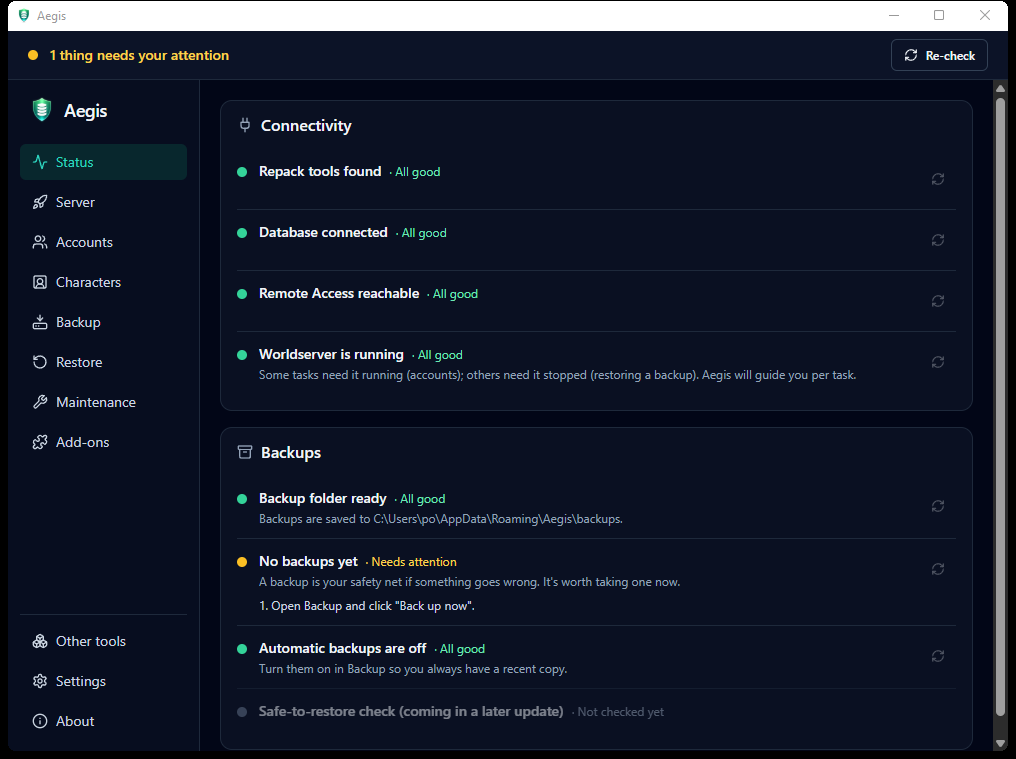
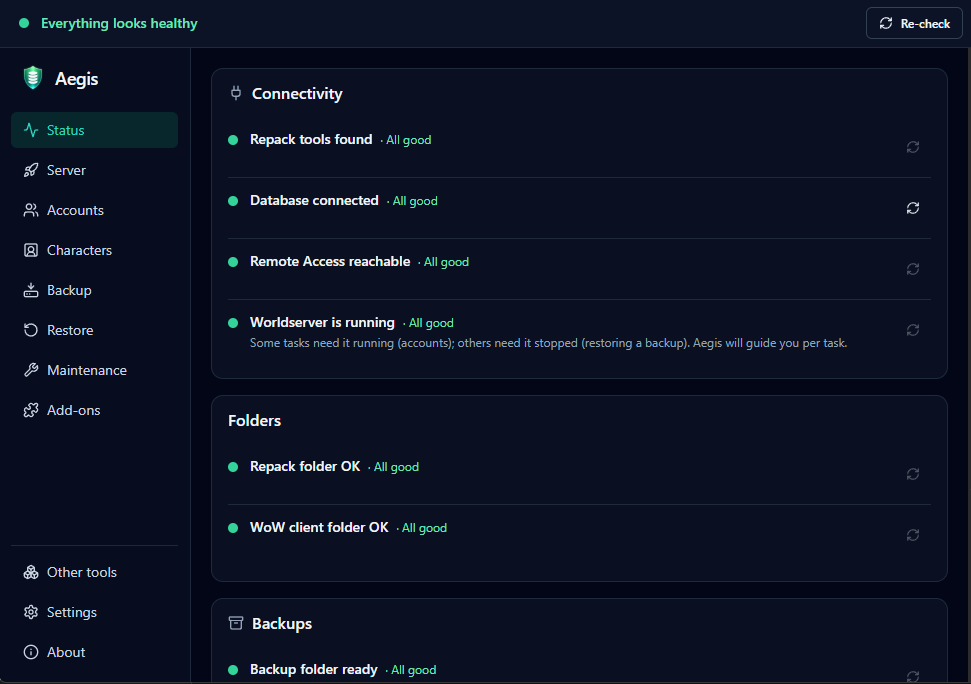
docs: restore README screenshot gallery for v0.1 release
User-captured the 8 main screenshots (status / server / accounts /
characters / backup / restore / maintenance / addons). The setup
walkthrough is the new aegis_setup.gif. Brought back inline
descriptions for each, refreshed to mention the new functionality
they show:
- status: Folders category (path revalidation each start)
- accounts: the new Delete account card with typed-name confirm
- characters: safe-new-GUID across every character_* table
- restore: live-polling server gate (no more stale-Health stuck)
- maintenance: live DB size summary with Total

Also: tiny polish to match the new Folders category — added a
FolderTree icon next to the section header on StatusCard so it sits
alongside the Connectivity (Plug) and Backups (Archive) icons.

diff --git a/src/features/health/StatusCard.tsx b/src/features/health/StatusCard.tsx
@@ -1,4 +1,4 @@
-import { Archive, Plug, RefreshCw } from "lucide-react";
+import { Archive, FolderTree, Plug, RefreshCw } from "lucide-react";
 import { Button } from "@/components/ui/button";
 import { Card, CardContent, CardHeader, CardTitle } from "@/components/ui/card";
 import { STATUS_META } from "./status";
@@ -6,6 +6,7 @@ import type { HealthCheck, HealthReport } from "@/lib/types";
 
 const CATEGORY_ICONS: Record<string, React.ReactNode> = {
   Connectivity: <Plug className="h-4 w-4 text-slate-400" />,
+  Folders: <FolderTree className="h-4 w-4 text-slate-400" />,
   Backups: <Archive className="h-4 w-4 text-slate-400" />,
 };
 

diff --git a/README.md b/README.md
@@ -100,11 +100,58 @@ from `worldserver.conf`, Remote Access test, all in under a minute.*
 ![Setup walkthrough](assets/img/screenshots/aegis_setup.gif)
 
 ### Health dashboard
-*Color **and** text everywhere — one glance tells you what needs attention. If something's wrong,
-the panel says what, why, and exactly what to do. The raw (redacted) details quietly go to a log
-file you can attach to a GitHub issue.*
+*Color **and** text everywhere — one glance tells you what needs attention. Connectivity, folders,
+backups: everything proactively checked at every start. If something's wrong, the panel says what,
+why, and exactly what to do. The raw (redacted) details quietly go to a log file you can attach
+to a GitHub issue.*
 
 ![Health dashboard](assets/img/screenshots/status.png)
+
+### Server control
+*Start / stop / restart your worldserver, authserver and MySQL, or bring the whole stack up in the
+right order with "Start everything". Worldserver stops safely via Remote Access when it can.
+One-click open for `worldserver.conf` straight in the row.*
+
+![Server control](assets/img/screenshots/server.png)
+
+### Account management
+*Create accounts, set GM levels, reset passwords, and **delete accounts** — all through Remote
+Access, with a typed-name confirm on the destructive one. The worldserver itself hashes
+passwords, so logins always work.*
+
+![Accounts](assets/img/screenshots/accounts.png)
+
+### Characters
+*Search hundreds of characters, back up any one of them (or all in a single RA session), and
+import a character dump onto any account. Aegis computes a safe character ID across every
+`character_*` table so there are no orphan-row collisions on import.*
+
+![Characters](assets/img/screenshots/characters.png)
+
+### Backup + automatic schedule
+*Full database backup with size + row-count sanity. Schedule daily or weekly backups with
+auto-rotation. There's also a "Website data only" button for the registration portal's tables.*
+
+![Backup](assets/img/screenshots/backup.png)
+
+### Safe restore
+*Aegis takes a fresh safety backup first, asks you to type a confirmation, and refuses to restore
+while your worldserver or authserver is running — polling live, so the gate opens the moment you
+stop them.*
+
+![Restore](assets/img/screenshots/restore.png)
+
+### Database maintenance
+*Analyze (refresh statistics), Optimize (reclaim space) and Check & repair, with honest copy
+about what each does on InnoDB. Plus a live size summary across every database — and the total.*
+
+![Maintenance](assets/img/screenshots/maintenance.png)
+
+### Add-ons
+*Your GM panel featured at the top; 14 popular community add-ons bundled with the app, installed
+offline with one click. Remove just as easily.*
+
+![Add-ons](assets/img/screenshots/addons.png)
 
 ## Download & Install
 
